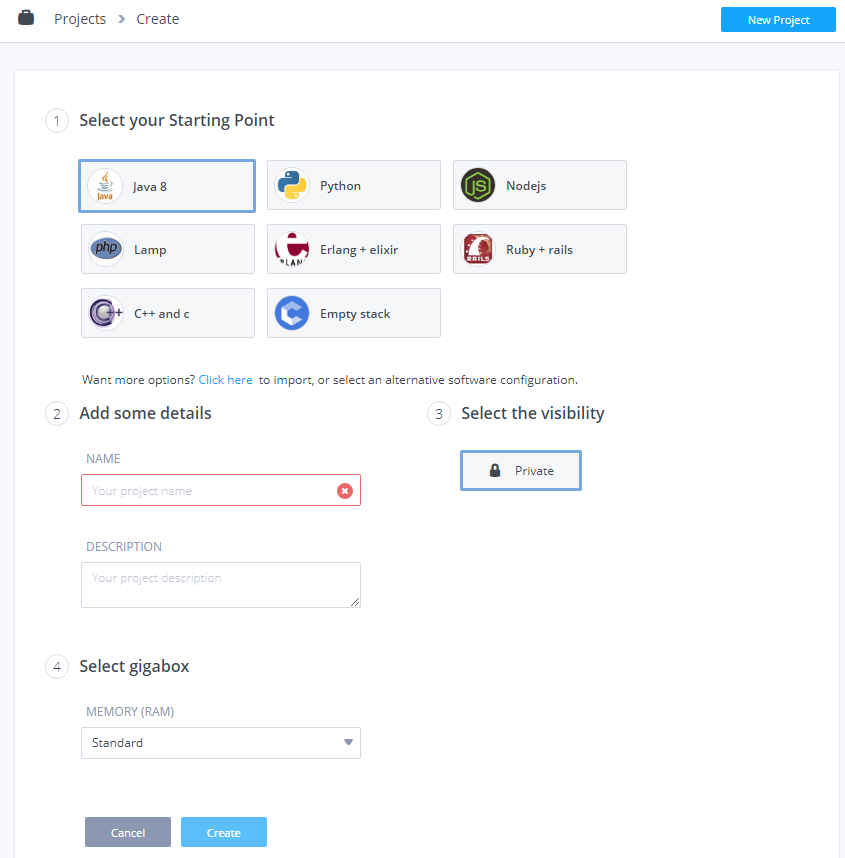
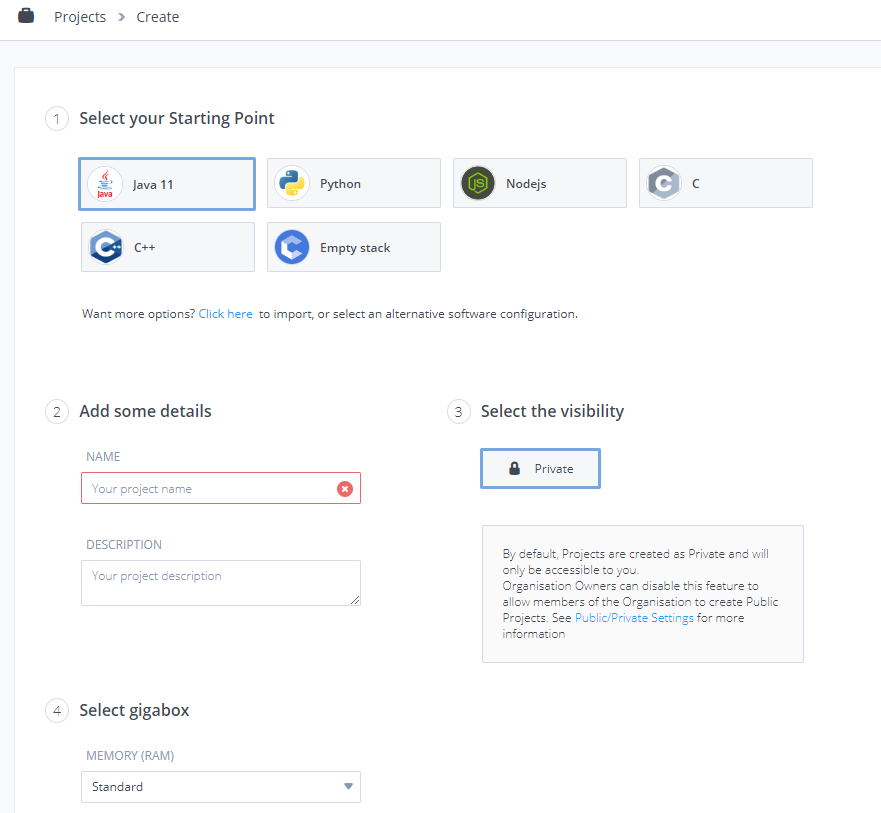
Changelog #11461 #11453 #11438 #11469

diff --git a/docs/project/projects.md b/docs/project/projects.md
@@ -24,7 +24,7 @@ Here are the key things you need to know about projects.
 - You can snapshot the combination of a Stack and the project code workspace and add it to the **Starter Packs** template library.
 
 ### Strong recommendations
-We strongly recommend that you are familiar with the following concepts if you plan to assign projects to classes of students. Even if you don't knowledge of the following project related features will stand you in good stead.
+We strongly recommend that you are familiar with the following concepts if you plan to assign projects to classes of students. Even if you don't, knowledge of the following project related features will stand you in good stead.
 
 - Boxes and the IDE section, available on the main index page of the [documentation](https://docs.codio.com) 
 
@@ -44,17 +44,18 @@ You can then choose which of the following Project creation methods you want to 
 
 ### Creating an empty project
 
-Select a commonly used Stack from the available list:
+Select a commonly used template from the available list:
 
-For example:
+- **Java 11:**  
+- **Python:** 
+- **Nodejs** 
+- **C**
+- **C++**
+- **Empty Stack:** 
 
-- **LAMP:** LAMP Stack containing PHP, Apache and MySql with no code workspace.
-- **Python:** Python Stack with no code workspace.
-- **Empty Stack:** an empty Ubuntu Box with no code workspace (suitable for HTML/CSS/JS projects).
+Projects created from a template will include an explanatory README.md file providing useful information to help you get started and with the exception of the **Empty Stack** will also include a pre-configured .codio menu set up with basic actions such a project would require.  If you wish to re configure the .codio menu file, you can. See [Customizable Run Menu](/project/ide/boxes/#customizable-run-menu) for more information
 
-Projects created from a Stack will include an explanatory README.md file providing useful information to help you get started and will open automatically for newly created projects.
-
-The list of stacks is only a starting point. You can take any stack and then customize it from the command line. Users have **sudo** level privileges and so can install and configure exactly as they please.
+The list of stack templates is only a starting point. You can take any stack and then customize it from the command line. Users have **sudo** level privileges and so can install and configure exactly as they please.
 
 Refer to the [section on Stacks](/project/stacks) to learn how to create and manage your own software configuration templates.
 
@@ -79,9 +80,10 @@ You should give your project a name and a description, which will appear in the 
 
 
 ### Visibility
-Projects that are public can be found by any Codio user. If you have a personal subscription or you are a member of an Organization, you can mark the Project as private. In **My Projects** you will see a padlock icon for any Projects that are private.
+Projects that are public can be found by any Codio user. Organization owners can enable the ability for you to create public projects. See [Public/Private Settings](/dashboard/organisations/#publicprivate-settings).
 
-Organization owners can enable the ability for you to create public projects. See [Public/Private Settings](/dashboard/organisations/#publicprivate-settings).
+By default, projects are created as private. In **My Projects** you will see a padlock icon for any Projects that are private.
+
 
 You can assign access read, write and full admin rights (ability for others to access the Box from the terminal) to other users for private projects from within the IDE from the **Project->Permissions** menu.
 

diff --git a/docs/courses/coursemanagement.md b/docs/courses/coursemanagement.md
@@ -222,17 +222,15 @@ You add a new assignment by pressing the large blue **+** button. You now need t
 [Click here](/courses/authoring/#project-course-assignment-or-book) if you are not sure about the difference between project assignments and book assignments.
 
 
-<a name="projectunit"></a>
 ### New project assignment
 You can create a new assignment in the following ways.
 
 - Create a brand new assignment as you would with a normal Codio project.
-- Import (Fork) an existing project into the assignment. See the image below and read the contents of the **Important** box. A snapshot of the selected project is taken. From that point on you will edit from the assignment, not the project.
-- Import from GitHub or a Zip file of an existing Codio project, by selecting the **Import** option.
+- Import (Fork) an existing project into the assignment. See the image below and click on the **click here** for more options where you can Import (fork) an existing project. A snapshot of the selected project is taken. From that point on you will edit from the assignment, not the project.
+- Import from GitHub or a Zip file of an existing Codio project, again, by clicking on the **click here** to select this option.
 
-![UnitStart](/img/unitstart.png)
+![UnitStart](/img/project_create.png)
 
-<a name="createbook"></a>
 
 ### New book assignment
 Creating a new book assignment involves pointing to the parts of a book that you want to map to your assignment. You will seen the following screen.

diff --git a/docs/resources/Codio-Resources.md b/docs/resources/Codio-Resources.md
@@ -53,7 +53,7 @@ A fun JavaScript project covering computational thinking concepts as well as int
 A fun Python project covering computational thinking concepts as well as introductory programming topics with fully auto-graded assessments.
 - [Crunch](https://www.codio.com/resources/crunch)
 A student-friendly way to teach Assembly (based on Little Man Computer) allowing students to try low-level commands within their browser. For more details on Crunch, [click here](docs/resources/Resource-Tools/crunch)
-- [R for Data Science: Import, Tidy, Transform, Visualize, and Model Data](https://www.codio.com/resources/r-for-data-science)
+- [R for Data Science: Import, Tidy, Transform, Visualize, and Model Data](https://www.codio.com/resources/r-for-data-science) **Share Code: WM9N-QV92-7QCW**
 Hadley Wickham and Garrett Grolemund's text paired with RStudio for a seamless learning experience.
 - [Think C: How to Think like a Computer Scientist](https://www.codio.com/resources/think-c)
 Allen Downey's How to Think Like a Computer Scientist text ported to C by Thomas Scheffler.

diff --git a/docs/resources/changelog.md b/docs/resources/changelog.md
@@ -13,6 +13,10 @@ We do not report small bug fixes or issues that affect individual users, who we 
 
 **May 2020**
 
+- `[I] [07th]`: Fix problem with searching/finding users/orgs/groups when adding permissions to projects/assignments
+- `[F] [07th]`: Update project/assignment creation to include configured .codio file and sample files
+- `[I] [06th]`: Update default Readme.md files created with new projects/assignments
+- `[I] [06th]`: Improve presentation of [Debug menu](/project/ide/features/#creating-and-managing-debug-targets)
 - `[F] [06th]`: Add [Exam Mode Options](/courses/classes/#exam-proctoring) for course assignments
 
 **April 2020**
